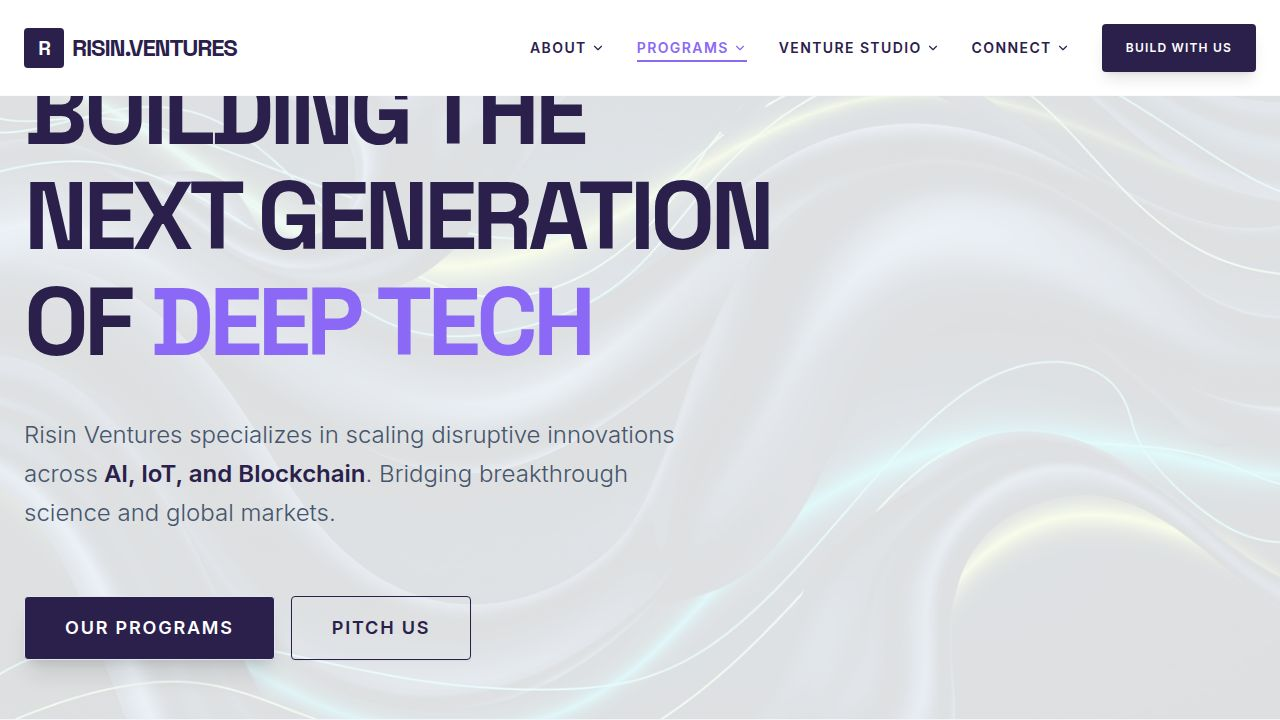
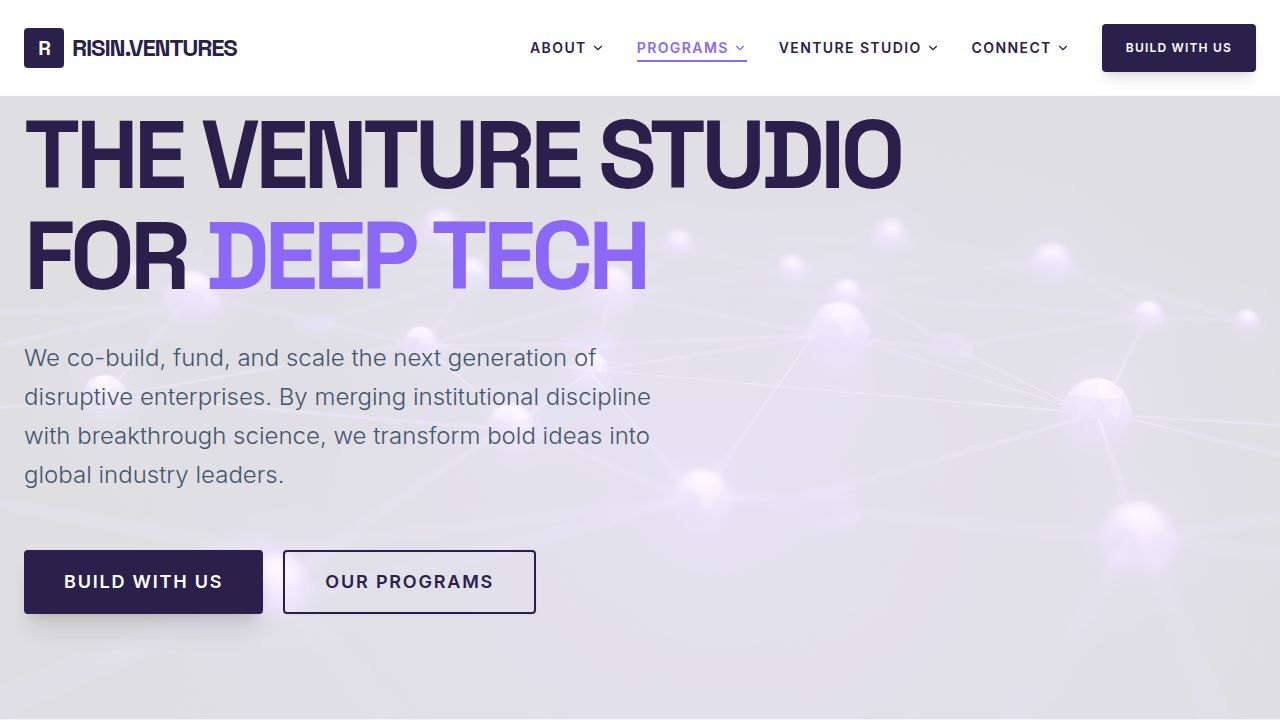
Adjust hero headline to display on two lines
Update the hero section's headline in `home.tsx` to use a single `<br>` tag for desktop display, ensuring it fits within two lines and avoids overlapping the navigation bar.

Replit-Commit-Author: Agent
Replit-Commit-Session-Id: bba26ccf-b4de-4c7d-95d9-8c6c583f60a8
Replit-Commit-Checkpoint-Type: full_checkpoint
Replit-Commit-Event-Id: 7bb3cb76-bba4-420f-b1b2-01413cda28c3
Replit-Commit-Screenshot-Url: https://storage.googleapis.com/screenshot-production-us-central1/cc07027b-045f-4853-a9cd-9c7ce4d7e895/bba26ccf-b4de-4c7d-95d9-8c6c583f60a8/tgvkipZ
Replit-Helium-Checkpoint-Created: true

diff --git a/client/src/pages/home.tsx b/client/src/pages/home.tsx
@@ -185,9 +185,8 @@ export default function Home() {
               variants={fadeIn}
               className="text-4xl md:text-7xl lg:text-8xl font-heading font-bold leading-[1.05] tracking-tighter mb-6 md:mb-8 uppercase text-[#2b204c]"
             >
-              The Venture <br className="hidden md:block" />
-              Studio for <br className="hidden md:block" />
-              <span className="text-[#8b68f6]">Deep Tech</span>
+              The Venture Studio <br className="hidden md:block" />
+              for <span className="text-[#8b68f6]">Deep Tech</span>
             </motion.h1>
             
             <motion.p 
